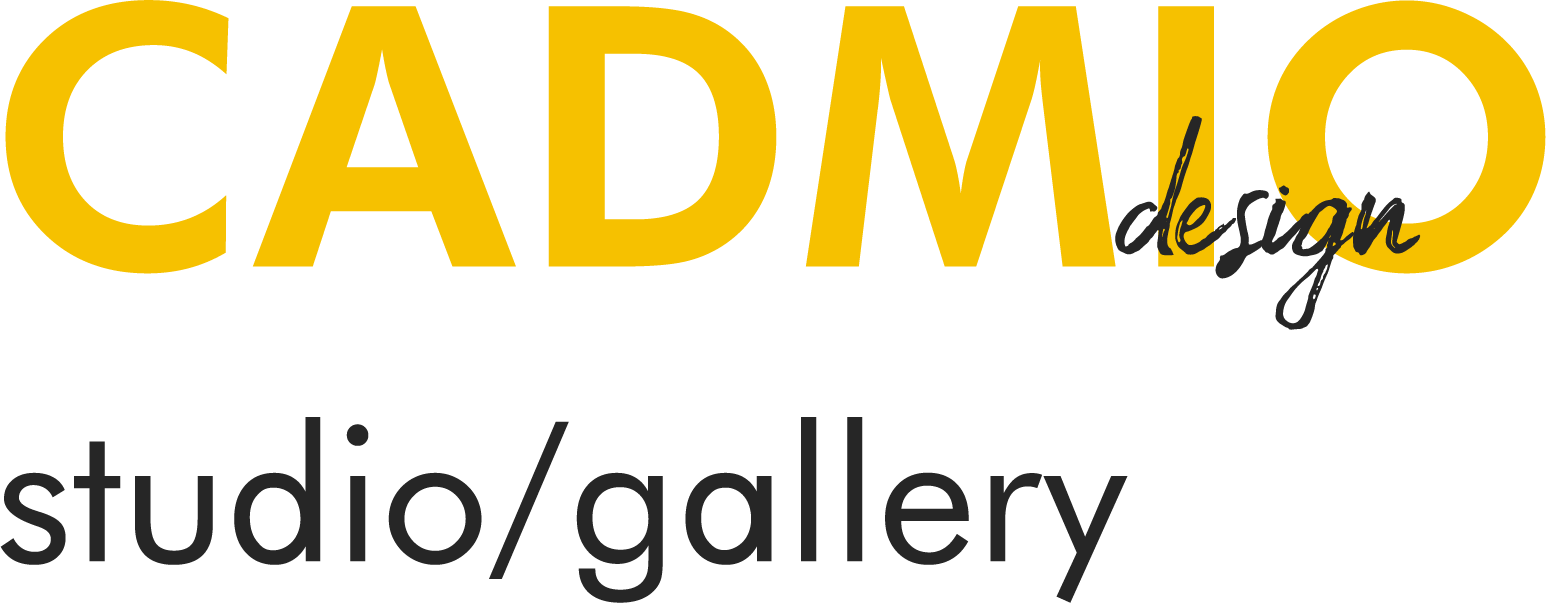
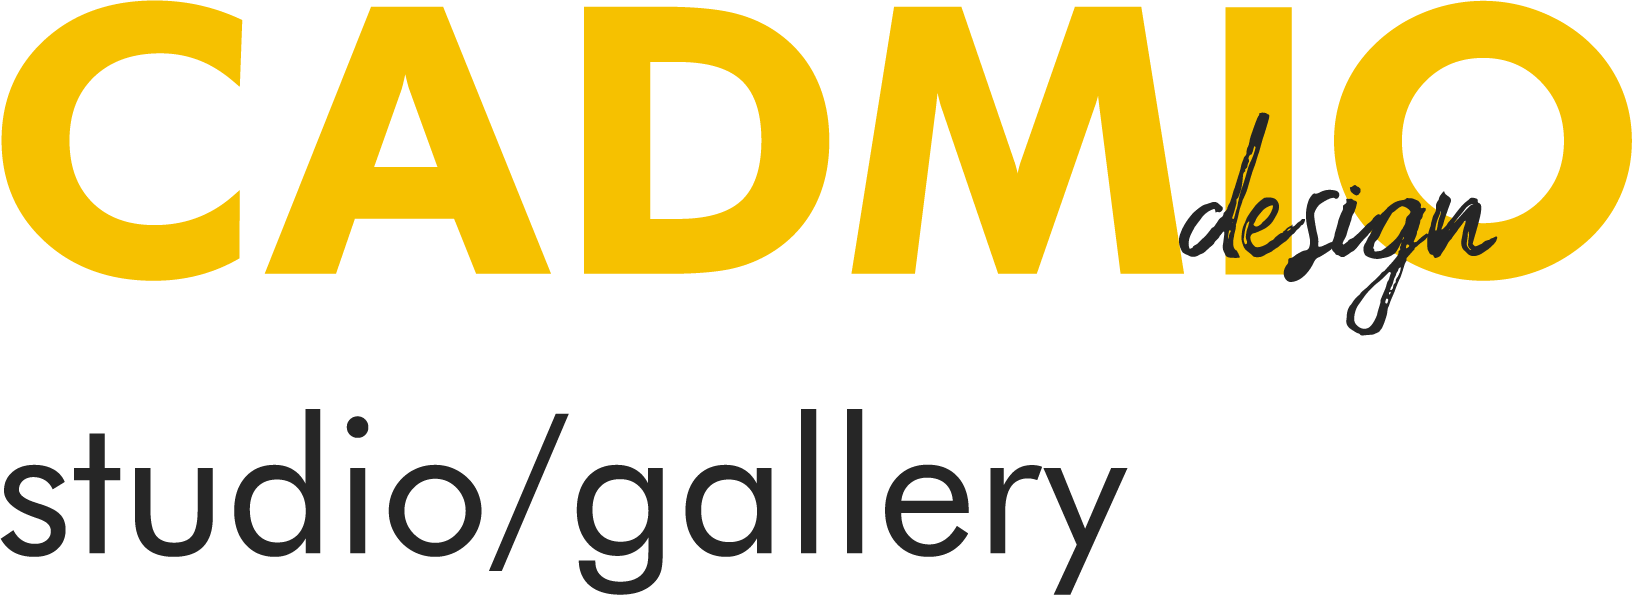
f

diff --git a/myworks.html b/myworks.html
@@ -1,16 +1,15 @@
-  <link href="style.css" rel="stylesheet" type="text/css">
+<link href="style.css" rel="stylesheet" type="text/css">
 
-  <div id="all">
-    <div id="header">
-       <div id="ES"> <img src="https://raw.githubusercontent.com/ElenaSpinelli/ElenaSpinelli/master/Tavola%20disegno%2014.png" alt="cadmiologo" width="55%"> </div>
+<div id="all">
+  <div id="header">
+     <div id="ES"> <img src="https://raw.githubusercontent.com/ElenaSpinelli/ElenaSpinelli/master/Tavola%20disegno%2014.png" alt="cadmiologo" width="45%"> </div>
 
-      <ul class="nav">
-      <li> <a href="index.html">About me</a> </li>
-      <li> <a id="selected" href="Myworks.html">My works</a> </li>
-      <li> <a href="Contacts.html">Contacts</a> </li>
-        </ul>
-  </div><!--#header-->
-
+    <ul class="nav">
+    <li> <a href="index.html">About me</a> </li>
+    <li> <a id="selected" href="myworks.html">My works</a> </li>
+    <li> <a href="contacts.html">Contacts</a> </li>
+      </ul>
+</div><!--#header-->
 
 
   <div id="chapters">

diff --git a/Index.html b/Index.html
@@ -2,7 +2,7 @@
 
   <div id="all">
     <div id="header">
-       <div id="ES"> <img src="https://raw.githubusercontent.com/ElenaSpinelli/ElenaSpinelli/master/Tavola%20disegno%2014.png" alt="cadmiologo" width="55%"> </div>
+       <div id="ES"> <img src="https://raw.githubusercontent.com/ElenaSpinelli/ElenaSpinelli/master/Tavola%20disegno%2014.png" alt="cadmiologo" width="45%"> </div>
 
       <ul class="nav">
       <li> <a id="selected" href="index.html">About me</a> </li>

diff --git a/index.html b/index.html
@@ -2,7 +2,7 @@
 
   <div id="all">
     <div id="header">
-       <div id="ES"> <img src="https://raw.githubusercontent.com/ElenaSpinelli/ElenaSpinelli/master/Tavola%20disegno%2014.png" alt="cadmiologo" width="55%"> </div>
+       <div id="ES"> <img src="https://raw.githubusercontent.com/ElenaSpinelli/ElenaSpinelli/master/Tavola%20disegno%2014.png" alt="cadmiologo" width="45%"> </div>
 
       <ul class="nav">
       <li> <a id="selected" href="index.html">About me</a> </li>

diff --git a/style.css b/style.css
@@ -7,7 +7,7 @@
   overflow:hidden;
   display: inline-block;
   width:90%;
-  height:160px;
+  height: auto;
   top:0%;left:0%;
 }
 
@@ -15,12 +15,6 @@
   display: inline-block;
   background-color:white;
   width:65%;
-  letter-spacing: 1px;
-  color: #f6c100;
-  text-decoration:underline dotted #f6e39d;
-	font-family: "heavy", heavy, futura ;
-	font-size: 100px;
-	text-align: left;
 }
 
 .nav {
